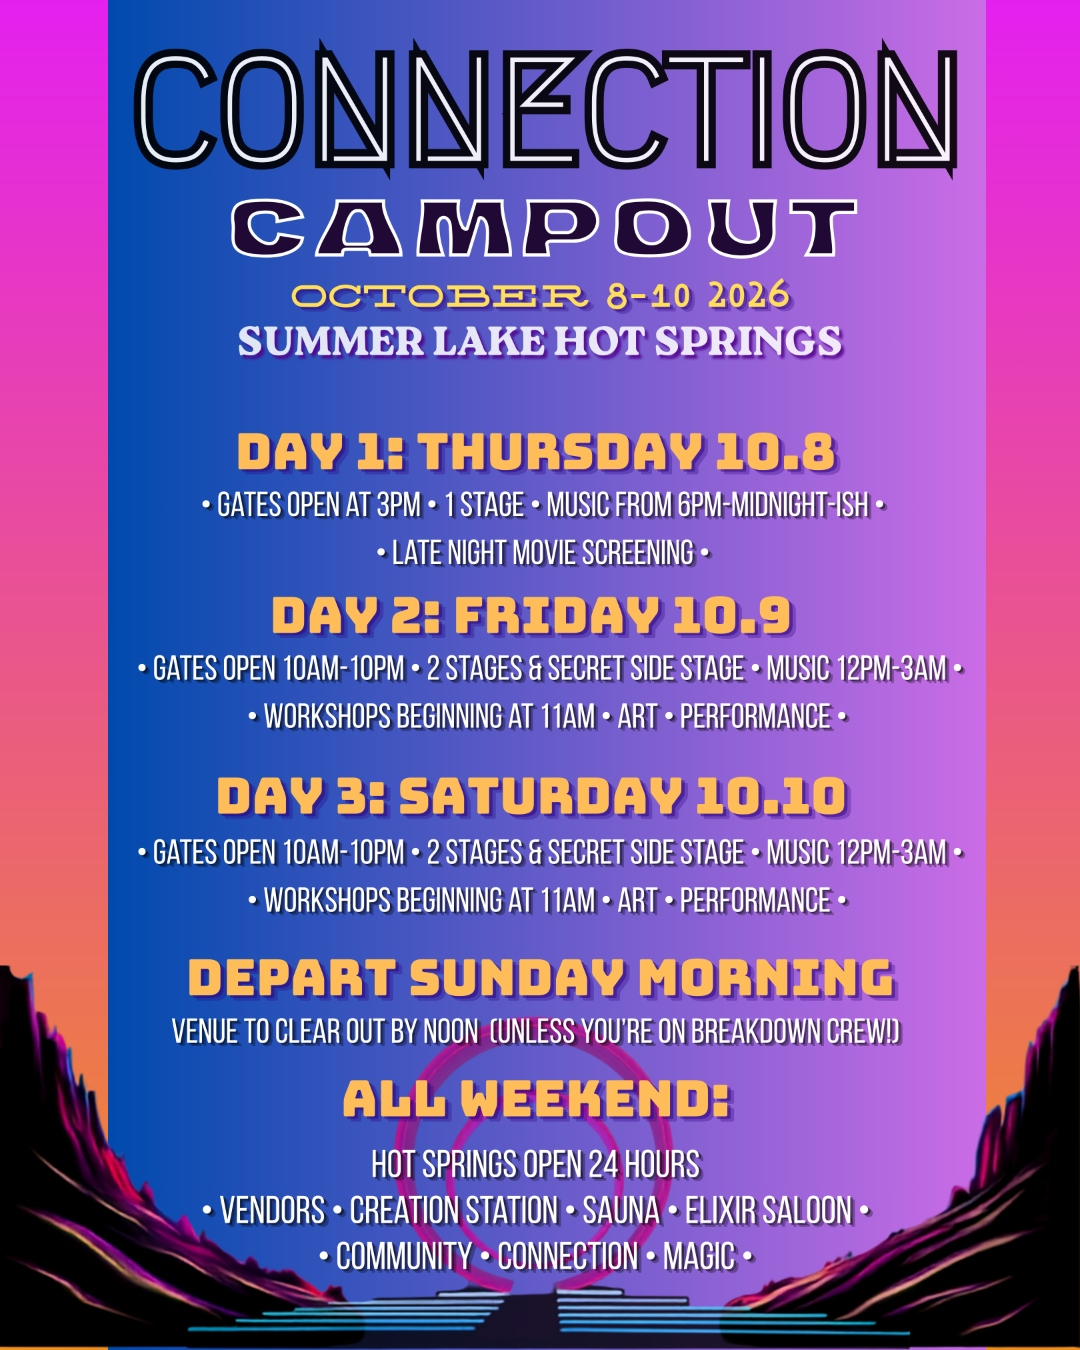
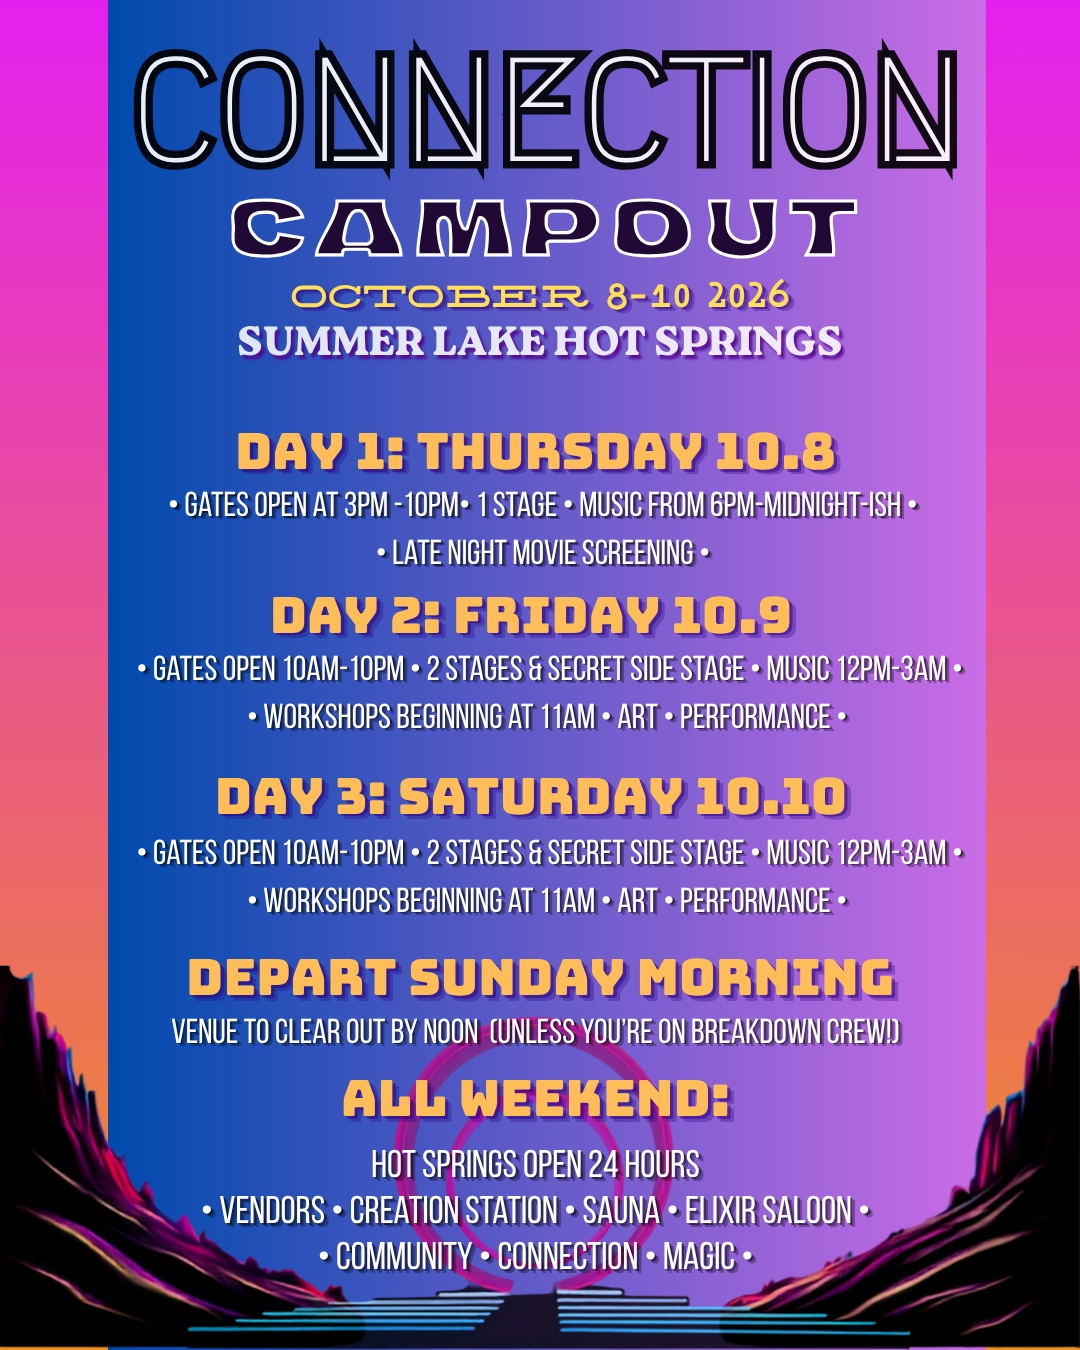
Add Co-Creators section, update lineup and schedule posters

diff --git a/index.html b/index.html
@@ -33,6 +33,7 @@
       <nav class="nav-links" aria-label="Main navigation">
         <a href="#experience">Experience</a>
         <a href="#lineup">Lineup</a>
+        <a href="#cocreators">Co-Creators</a>
         <a href="#gallery">The Place</a>
         <a href="#info">Info</a>
         <a href="#get-involved">Get Involved</a>
@@ -51,6 +52,7 @@
     <nav class="mobile-nav-links">
       <a href="#experience" class="mobile-link">Experience</a>
       <a href="#lineup" class="mobile-link">Lineup</a>
+      <a href="#cocreators" class="mobile-link">Co-Creators</a>
       <a href="#gallery" class="mobile-link">The Place</a>
       <a href="#info" class="mobile-link">Info</a>
       <a href="#get-involved" class="mobile-link">Get Involved</a>
@@ -204,6 +206,28 @@
         <div class="lineup-poster-wrap">
           <img src="images/schedule.jpg" alt="Connection Campout 2026 daily schedule poster" loading="lazy" />
         </div>
+      </div>
+    </div>
+  </section>
+
+  <!-- CO-CREATORS SECTION -->
+  <section class="section cocreators-section" id="cocreators">
+    <div class="container">
+      <div class="section-header">
+        <p class="section-label">Community Partners</p>
+        <h2 class="section-title">Co-Creators</h2>
+        <p class="section-body">Connection Campout is built with and by an incredible community of partners, collectives, and organizers who share our vision.</p>
+      </div>
+      <div class="cocreators-grid">
+        <div class="cocreator-card"><img src="images/cocreator_flux.jpg" alt="Flux — Hot Soak Cold Plunge, Bend Oregon" loading="lazy" /></div>
+        <div class="cocreator-card"><img src="images/cocreator_basscamp.jpg" alt="Basscamp" loading="lazy" /></div>
+        <div class="cocreator-card"><img src="images/cocreator_sourcecodtemple.jpg" alt="Source Code Temple" loading="lazy" /></div>
+        <div class="cocreator-card"><img src="images/cocreator_spellfire.jpg" alt="Spellfire Productions" loading="lazy" /></div>
+        <div class="cocreator-card"><img src="images/cocreator_beatlabradio.jpg" alt="Beat Lab Radio" loading="lazy" /></div>
+        <div class="cocreator-card"><img src="images/cocreator_bendingevents.jpg" alt="Bending Events" loading="lazy" /></div>
+        <div class="cocreator-card"><img src="images/cocreator_glowlux.jpg" alt="Glow Lux Events" loading="lazy" /></div>
+        <div class="cocreator-card"><img src="images/cocreator_horm.jpg" alt="HoRm" loading="lazy" /></div>
+        <div class="cocreator-card"><img src="images/cocreator_deepcanyon.jpg" alt="Deep Canyon Collective" loading="lazy" /></div>
       </div>
     </div>
   </section>

diff --git a/css/style.css b/css/style.css
@@ -1383,3 +1383,34 @@ h1, h2, h3 { font-family: var(--font-display); line-height: 1.1; text-wrap: bala
 .ticket-card--soldout {
   opacity: 0.75;
 }
+
+/* ---- CO-CREATORS SECTION ---- */
+.cocreators-section { background: var(--color-surface); }
+.cocreators-grid {
+  display: grid;
+  grid-template-columns: repeat(3, 1fr);
+  gap: var(--space-6);
+  margin-top: var(--space-12);
+}
+.cocreator-card {
+  border-radius: var(--radius-xl);
+  overflow: hidden;
+  box-shadow: 0 0 30px rgba(212, 64, 154, 0.15), var(--shadow-md);
+  border: 1px solid rgba(212, 64, 154, 0.15);
+  transition: transform 0.3s ease, box-shadow 0.3s ease;
+}
+.cocreator-card:hover {
+  transform: translateY(-4px);
+  box-shadow: 0 0 50px rgba(212, 64, 154, 0.3), var(--shadow-lg);
+}
+.cocreator-card img {
+  width: 100%;
+  height: auto;
+  display: block;
+}
+@media (max-width: 900px) {
+  .cocreators-grid { grid-template-columns: repeat(2, 1fr); }
+}
+@media (max-width: 500px) {
+  .cocreators-grid { grid-template-columns: 1fr; }
+}
